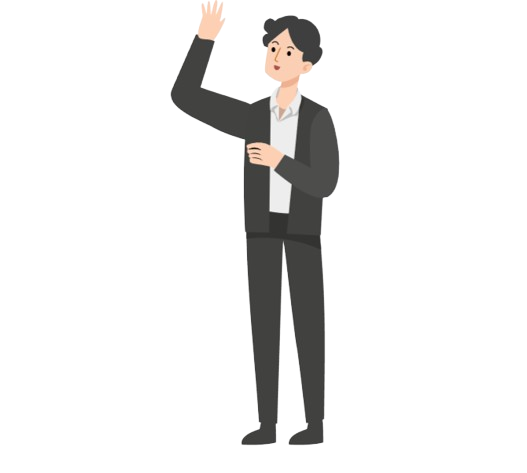
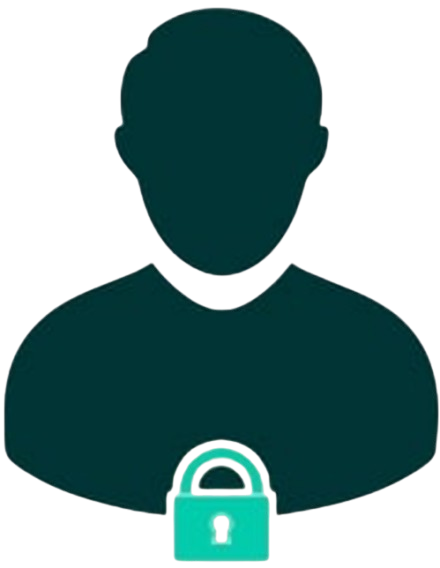
choose acount type is fininshed

diff --git a/lib/feature/authentaction/presentation/view/choose_acount_type.dart b/lib/feature/authentaction/presentation/view/choose_acount_type.dart
@@ -1,8 +1,8 @@
 import 'package:flutter/material.dart';
 import 'package:splash_app/core/helper/extentions.dart';
-import 'package:splash_app/core/utils/color_manager.dart';
+import 'package:splash_app/core/utils/app_size.dart';
 import 'package:splash_app/core/utils/string_manager.dart';
-import 'package:splash_app/core/utils/styles_manager.dart';
+import 'package:splash_app/feature/authentaction/presentation/view/widgets/choose_acount_type_section.dart';
 import 'package:splash_app/feature/authentaction/presentation/view/widgets/custom_logo_auth.dart';
 
 class ChooseAcountType extends StatelessWidget {
@@ -14,85 +14,13 @@ class ChooseAcountType extends StatelessWidget {
       appBar: AppBar(),
       body: Column(
         crossAxisAlignment: CrossAxisAlignment.center,
-        children: <Widget>[
+        children: [
           CustomLogoAuth(
-            title: 'Choose Type',
+            title: StringsManager.chooseType,
             height: context.screenHeight * 0.2,
           ),
-          const SizedBox(
-            height: 30,
-            width: double.infinity,
-          ),
-          Container(
-            height: 200,
-            width: 300,
-            decoration: BoxDecoration(
-                color: ColorsManager.mainColor,
-                borderRadius: BorderRadius.circular(12)),
-            child: Column(
-              mainAxisAlignment: MainAxisAlignment.end,
-              crossAxisAlignment: CrossAxisAlignment.center,
-              children: [
-                Text(
-                  'User',
-                  textAlign: TextAlign.right,
-                  style: StylesManager.textStyleBold24,
-                ),
-                const SizedBox(height: 20),
-                SizedBox(
-                  height: 145,
-                  width: 200,
-                  child: Image.asset(
-                    'assets/images/user1.png',
-                  ),
-                ),
-              ],
-            ),
-          ),
-         const SizedBox(
-            height: 30,
-          ),
-          Container(
-            height: 200,
-            width: 300,
-            decoration: BoxDecoration(
-                color: ColorsManager.mainColor,
-
-                //   color: const Color.fromARGB(255, 30, 49, 83),
-                borderRadius: BorderRadius.circular(16)),
-            child: Column(
-              mainAxisAlignment: MainAxisAlignment.end,
-              children: [
-                Text(
-                  'Service Provider',
-                  style: StylesManager.textStyleBold24,
-                ),
-                SizedBox(
-                  height: 150,
-                  width: 200,
-                  child: Image.asset(
-                    'assets/images/service_provider.png',
-                    color: Colors.white,
-                  ),
-                ),
-              ],
-            ),
-          ),
-         const SizedBox(
-            height: 40,
-          ),
-          Container(
-            alignment: Alignment.center,
-            decoration: BoxDecoration(
-                color: ColorsManager.mainColor,
-                borderRadius: BorderRadius.circular(12)),
-            height: 70,
-            width: 350,
-            child: Text(
-              StringsManager.register,
-              style: StylesManager.textStyleMedium26,
-            ),
-          )
+          const SizedBox(height: AppSize.s30),
+          const ChooseAcountTypeSection(),
         ],
       ),
     );

diff --git a/lib/feature/authentaction/presentation/view/widgets/custom_user_type.dart b/lib/feature/authentaction/presentation/view/widgets/custom_user_type.dart
@@ -1,0 +1,58 @@
+
+import 'package:flutter/material.dart';
+import 'package:splash_app/core/utils/app_size.dart';
+import 'package:splash_app/core/utils/styles_manager.dart';
+
+import '../../../../../core/utils/color_manager.dart';
+
+class CustomUserType extends StatelessWidget {
+  const CustomUserType({
+    super.key,
+    required this.imageUrl,
+    required this.title,
+    required this.onTap,
+    required this.value,
+  });
+  final String imageUrl;
+  final String title;
+  final bool value;
+
+  final void Function()? onTap;
+  @override
+  Widget build(BuildContext context) {
+    return GestureDetector(
+      onTap: onTap,
+      child: Container(
+        height: 200,
+        width: 300,
+        decoration: BoxDecoration(
+            color: value
+                ? const Color.fromARGB(49, 99, 110, 129)
+                : ColorsManager.mainColor,
+            borderRadius: BorderRadius.circular(12)),
+        child: Column(
+          mainAxisAlignment: MainAxisAlignment.start,
+          crossAxisAlignment: CrossAxisAlignment.center,
+          children: [
+            const SizedBox(height: AppSize.s20),
+            SizedBox(
+              height: 125,
+              width: 200,
+              child: Image.asset(
+                imageUrl,
+                color: value ? ColorsManager.mainColor : ColorsManager.white,
+              ),
+            ),
+            const SizedBox(height: 6),
+            Text(
+              title,
+              textAlign: TextAlign.right,
+              style: StylesManager.textStyleBold28.copyWith(
+                  color: value ? ColorsManager.mainColor : ColorsManager.white),
+            ),
+          ],
+        ),
+      ),
+    );
+  }
+}

diff --git a/lib/feature/authentaction/presentation/view/widgets/choose_acount_type_section.dart b/lib/feature/authentaction/presentation/view/widgets/choose_acount_type_section.dart
@@ -1,0 +1,57 @@
+
+
+import 'package:flutter/material.dart';
+import 'package:splash_app/core/utils/app_size.dart';
+import 'package:splash_app/core/utils/assets_manager.dart';
+import 'package:splash_app/core/utils/string_manager.dart';
+import 'package:splash_app/core/widgets/custom_text_button.dart';
+
+import 'custom_user_type.dart';
+
+class ChooseAcountTypeSection extends StatefulWidget {
+  const ChooseAcountTypeSection({
+    super.key,
+  });
+
+  @override
+  State<ChooseAcountTypeSection> createState() =>
+      _ChooseAcountTypeSectionState();
+}
+
+class _ChooseAcountTypeSectionState extends State<ChooseAcountTypeSection> {
+  bool value = false;
+
+  @override
+  Widget build(BuildContext context) {
+    return Padding(
+      padding: const EdgeInsets.symmetric(horizontal: AppSize.s20),
+      child: Column(
+        children: [
+          CustomUserType(
+            value: value,
+            title: StringsManager.user,
+            imageUrl: AssetsManager.user,
+            onTap: () {
+              value = false;
+              setState(() {});
+            },
+          ),
+          const SizedBox(height: 30),
+          CustomUserType(
+            value: !value,
+            title: StringsManager.technical,
+            imageUrl: AssetsManager.technical,
+            onTap: () {
+              value = true;
+              setState(() {});
+            },
+          ),
+          const SizedBox(
+            height: 40,
+          ),
+          CustomButton(onPressed: () {}, bottonName: StringsManager.signUp)
+        ],
+      ),
+    );
+  }
+}

diff --git a/lib/feature/authentaction/presentation/view/forget_password_view.dart b/lib/feature/authentaction/presentation/view/forget_password_view.dart
@@ -1,4 +1,5 @@
 import 'package:flutter/material.dart';
+import 'package:splash_app/core/functions/navigation.dart';
 import 'package:splash_app/core/utils/color_manager.dart';
 import 'package:splash_app/feature/authentaction/presentation/view/widgets/forget_password_body.dart';
 
@@ -9,13 +10,18 @@ class ForgetPasswordView extends StatelessWidget {
   Widget build(BuildContext context) {
     return Scaffold(
       appBar: AppBar(
-        leading:const Icon(
-          Icons.arrow_back,
-          color: Colors.white,
+        leading: IconButton(
+          onPressed: () {
+            NavigatorManager.pop(context: context);
+          },
+          icon: const Icon(
+            Icons.arrow_back,
+            color: Colors.white,
+          ),
         ),
         backgroundColor: ColorsManager.mainColor,
       ),
-      body:  ForgetPasswordBody(),
+      body: ForgetPasswordBody(),
     );
   }
 }

diff --git a/lib/core/functions/navigation.dart b/lib/core/functions/navigation.dart
@@ -25,4 +25,9 @@ static void pushWithReplacement({
       Navigator.pushNamed(context, route);
     });
   }
+  static void pop({
+    required BuildContext context,
+  }) {
+    Navigator.pop(context);
+  }
 }

diff --git a/lib/core/utils/string_manager.dart b/lib/core/utils/string_manager.dart
@@ -3,7 +3,7 @@ abstract class StringsManager {
   static const String register = 'Register';
   static const String skip = 'Skip';
   static const String login = 'LogIn';
-  static const String signUp = 'SignUp';
+  static const String signUp = 'Sign Up';
   static const String email = 'Email';
   static const String wThis = 'this';
   static const String isRequired = 'is required';
@@ -14,6 +14,9 @@ abstract class StringsManager {
   static const String remmberMy = 'Remember Me';
   static const String confirmPassword = 'Confirm Password';
   static const String startNow = 'Start now!';
+  static const String user = 'User';
+  static const String technical = 'Technical';
+  static const String chooseType = 'Choose Type';
   static const String submmit = 'Submmit';
   static const String zeroOne = '01';
   static const String emptyString = '';

diff --git a/lib/core/widgets/custom_text_button.dart b/lib/core/widgets/custom_text_button.dart
@@ -2,7 +2,6 @@ import 'package:flutter/material.dart';
 import 'package:splash_app/core/utils/color_manager.dart';
 
 import '../utils/app_size.dart';
-import '../utils/string_manager.dart';
 import '../utils/styles_manager.dart';
 
 class CustomButton extends StatelessWidget {
@@ -11,7 +10,7 @@ class CustomButton extends StatelessWidget {
     required this.onPressed,
     required this.bottonName,
   });
-  final String bottonName ;
+  final String bottonName;
   final void Function()? onPressed;
   @override
   Widget build(BuildContext context) {
@@ -24,7 +23,7 @@ class CustomButton extends StatelessWidget {
           shape: WidgetStatePropertyAll(RoundedRectangleBorder(
               borderRadius: BorderRadius.all(Radius.circular(AppSize.s12))))),
       child: Text(
-        StringsManager.login,
+        bottonName,
         style: StylesManager.textStyleBold24,
       ),
     );

diff --git a/lib/core/utils/styles_manager.dart b/lib/core/utils/styles_manager.dart
@@ -48,6 +48,10 @@ static TextStyle textStyleMedium26 = TextStyle(
     fontWeight: AppFontWieght.bold,
     fontSize: FontSize.s24,
     color: ColorsManager.white,
+  );  static TextStyle textStyleBold28 = TextStyle(
+    fontWeight: AppFontWieght.bold,
+    fontSize: FontSize.s28,
+    color: ColorsManager.white,
   );
   static TextStyle textStyleBold20 = TextStyle(
     fontWeight: AppFontWieght.bold,

diff --git a/lib/core/utils/assets_manager.dart b/lib/core/utils/assets_manager.dart
@@ -4,6 +4,8 @@ abstract class AssetsManager {
   static const String onboarding1 = 'assets/images/onboarding1.png';
   static const String onboarding2 = 'assets/images/onboarding2.png';
   static const String onboarding3 = 'assets/images/onboarding3.png';
+  static const String user = 'assets/images/user.png';
+  static const String technical = 'assets/images/service_provider.png';
 
 //! Assets Icons
   static const String deleteIcon = '';

diff --git a/lib/feature/authentaction/presentation/view/widgets/forget_password_body.dart b/lib/feature/authentaction/presentation/view/widgets/forget_password_body.dart
@@ -21,7 +21,7 @@ class ForgetPasswordBody extends StatelessWidget {
             height: context.screenHeight * AppSize.s03,
           ),
           const SizedBox(height: AppSize.s40),
-          CustomFrogetPasswordTextFromFieldSection(formKey: formKey)
+          CustomFrogetPasswordTextFromFieldSection(formKey: formKey),
         ],
       ),
     );